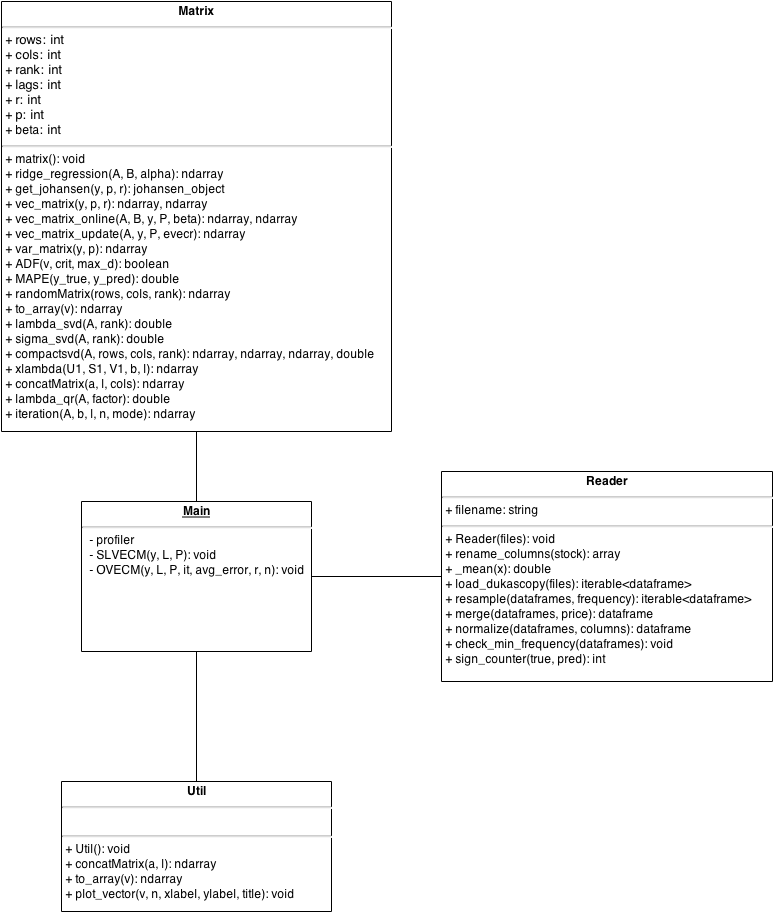
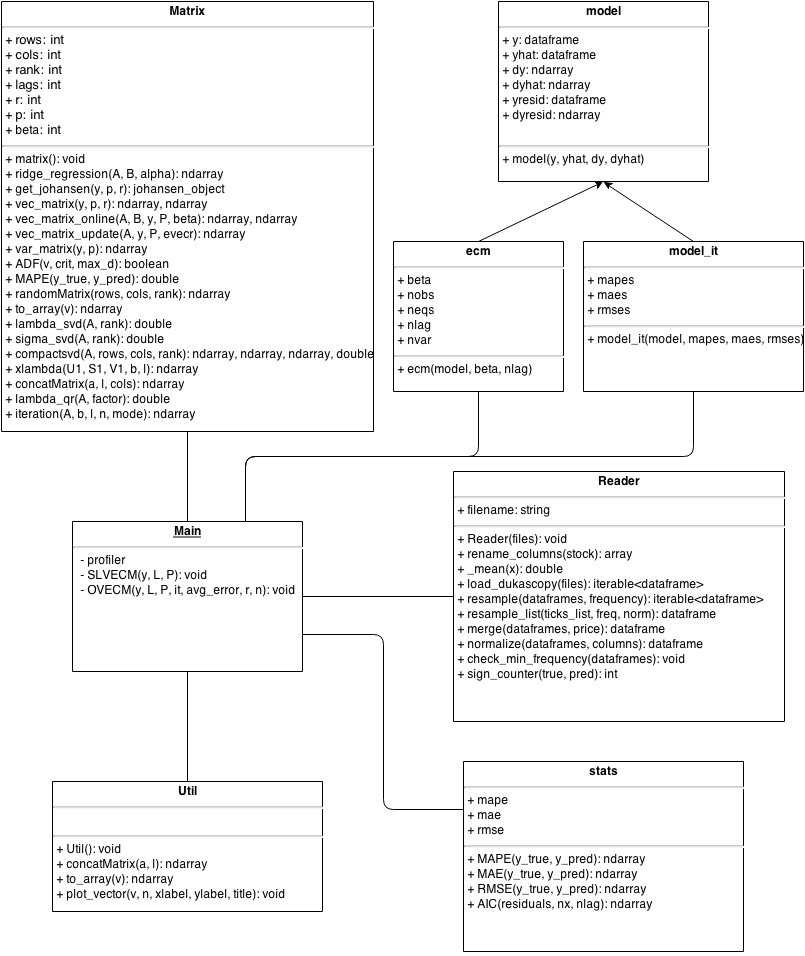
Adding experiments-results

diff --git a/escrito_memoria/include/experimentos.tex b/escrito_memoria/include/experimentos.tex
@@ -5,20 +5,33 @@ Dukascopy. Incialmente las pruebas se realizaron con datos a frecuencia de 1
 minuto, pero luego se implementó en clase Reader los métodos correspondientes
 para manejar la data ticks de forma automática: juntar datos de distintas monedas
 (Bid o Ask), hacer un resampling a diferentes frecuencias, normalizar las
-monedas dejando siempre la misma base, etc.
+monedas dejando siempre la misma base, etc. Las divisas elegidas para
+realizar los experimentos fueron: \emph{EURUSD}, \emph{GBPUSD}, \emph{USDCHF},
+\emph{USDJPY} y se trabajó con el Ask Price \ref{fig:stocks_ask}. En el caso de
+\emph{USDCHF}, \emph{USDJPY} se trabajó con su recíproco, para que todos los 
+cálculos quedaran en la misma base \emph{USD}. Además la frecuencia, muestreada
+en minutos, genera una ventana de 1440 datos por día.
+
+\begin{figure}[h!t]
+    \begin{center}
+        \includegraphics[width=0.65\textwidth]{images/stocks_ask}
+        \caption{Precio Ask de las divisas}
+        \label{fig:stocks_ask}
+    \end{center}
+\end{figure}
 
 Los ticks están compuestos por: \emph{Date}, \emph{Time}, \emph{Ask},
 \emph{Bid}, \emph{AskVolume}, \emph{BidVolume}. Por ser datos ticks, el campo
-Time es un hora \emph{double}, es decir, tiene asociada una
-hora:minutos:segundos, donde segundos es un número no entero. Cabe destacar que
-no existe una clara relación entre la aparición de ticks, ya que en algunos
-casos aparecen hasta 4 ticks en 1 segundo, mientras que en otros horarios no
-aparecen ticks en 90 segundos (dato calculado con la función
-check\_min\_frequency de la clase Reader). 
+Time es un hora \emph{double}, es decir, tiene asociada una hora :minutos:
+segundos, donde segundos es un número no entero. Cabe destacar que no existe
+una clara relación entre la aparición de ticks, ya que en algunos casos
+aparecen hasta 4 ticks en 1 segundo, mientras que en otros horarios no aparecen
+ticks en 90 segundos (dato calculado con la función check\_min\_frequency de la
+clase Reader). 
 
 En la figura \ref{fig:eurusd_ticks} se puede apreciar la data ticks del EURUSD,
 en una ventana de 30 minutos, donde la curva superior es la correspondiente al
-Ask, y la inferior al Bid. En la figura \ref{fig:eurusd_r6s} se muestra la
+Ask, y la inferior al Bid. En la figura \ref{fig:eurusd_30s} se muestra la
 misma moneda pero con un resample de 6 segundos. El resample se calcula con el
 promedio de los ticks en la ventana de 6 segundos, y para el caso que no exista
 movimiento en dicho periodo, se rellena con el valor anteior.
@@ -33,9 +46,9 @@ movimiento en dicho periodo, se rellena con el valor anteior.
 
 \begin{figure}[h!t]
     \begin{center}
-        \includegraphics[width=0.6\textwidth]{images/eurusd_6s}
-        \caption{Ticks de EURUSD con resample de 6 segundos}
-        \label{fig:eurusd_r6s}
+        \includegraphics[width=0.6\textwidth]{images/eurusd_30s}
+        \caption{Ticks de EURUSD con resample de 30 segundos}
+        \label{fig:eurusd_30s}
     \end{center}
 \end{figure}
 
@@ -43,18 +56,266 @@ movimiento en dicho periodo, se rellena con el valor anteior.
 \section{Selección de Parámetros}
 Cómo se mencionó anteriormente, los parámetros del algoritmo se calcularon
 mediante el criterio de información de Akaike (AIC). Para esto, se tomaron
-datos intradiarios de agosto 2014, semana entre 11-15. Además, se fue
+datos intradiarios de agosto 2014, semana entre 11-15. Además, se
 combinaron:
 \begin{itemize}
- \item L: entre 100 y el largo de la lista de Ask.
- \item P: entre 1 y 9 lags.
- \item Frecuencias: se tomaron distintas frecuencias, entre 5 a 30 segundos.
-\end{itemize} 
+ \item L: [100, 400, 700, 1000].
+ \item P: [1, 2, 3, 4, 5].
+ \item Frecuencias: 1 minuto.
+\end{itemize}
 
+Los resultados~\ref{tab:IAC} muestran para cada largo de ventana,
+el número de lag óptimos (en negrita) para el modelo según el criterio de AIC.
 
+\begin{table}[h]
+\caption{Resultados de AIC}
+\label{tab:IAC}
+\begin{center}
+\begin{tabular}{|l|c|c|c|c|c|}
+\hline
+\backslashbox{\textbf{L}}{\textbf{P}} & \textbf{1} & \textbf{2} & \textbf{3} & \textbf{4} & \textbf{5} \\
+\hline
+100 & -58.64574 & \textbf{-58.83743} & -58.70088 & -58.61984 & -58.68117 \\
+400 & -60.42127 & -60.65667 & -60.67377 & -60.64634 &  \textbf{-60.68087} \\
+700 & -59.05503 & -59.17413 & \textbf{-59.20871} & -59.18571 & -59.17367 \\
+100 & -58.98121 & -59.09158 & \textbf{-59.12083} & -59.10099 & -59.0927 \\
+\hline
+\end{tabular}
+\end{center}
+\end{table}
 
+\section{Pruebas de Cointegración}
+Para los efectos de pruebas como se trabajó con 4 monedas, la cantidad de 
+vectores de cointegración debería ser 1, 2 o 3. 
 
-\section{Resultados}
+\section{Test de raiz unitaria}
+Antes de correr los test, se checkearon que las series de tiempo fueran
+I(1) usando el test de Augmented Dickey Fuller (ADF).
+
+\begin{table}[h!]
+\caption{Test de raiz unitaria}
+\label{tab:adf}
+\begin{center}
+\begin{tabular}{|l|c|c|c|c|c|}
+\hline
+& \textbf{Estadístico} & \textbf{Valor Crítico} & \textbf{Resultado}\\
+\hline
+EURUSD          & -0.64 & -1.94 & True       \\
+$\Delta$ EURUSD & -70.45   & -1.94 & False       \\
+GBPUSD          & -0.63   & -1.94 & True          \\
+$\Delta$ GBPUSD & -54.53   & -1.94 & False       \\
+CHFUSD          & -0.88   & -1.94 & True         \\
+$\Delta$ CHFUSD & -98.98   & -1.94 & False       \\
+JPYUSD          & -0.65 & -1.94 & True        \\
+$\Delta$ JPYUSD & -85.78 & -1.94 & False     \\ 
+\hline
+\end{tabular}
+\end{center}
+\end{table}
+
+Tabla~\ref{tab:adf} muestra que todas las monedas no pueden rechazadas por el test
+de raiz unitaria pero si son rechazadas para sus primeras diferencias. Esto significa
+que todas las series de tiempo son I(1) por lo que es posible usar los modelos VECM
+y OVECM.
 
 \section{Performance}
+Dentro de todos los experimentos realizados, según la selección de parámetros
+y considerando 400 iteraciones los resultados de tiempos de ejecución se pueden
+ver en la tabla~\ref{tab:extimes}
 
+\begin{table}[h!]
+\caption{Execution times}
+\label{tab:extimes}
+\begin{center}
+\begin{tabular}{|l|c|c|c|c|c|}
+\hline
+& L & P & e  & Time[s] \\
+\hline
+OVECM & 100 & 2  & 0      & 2.235\\
+OVECM & 100 & 2  & 0.002  & 1.797\\
+SLVECM & 100 & 2  & -- & 2.100\\
+\hline
+OVECM & 400 & 5  & 0      & 3.390\\
+OVECM & 400 & 5  & 0.002  & 2.111\\
+SLVECM & 400 & 5  & -- & 3.222\\
+\hline
+OVECM & 700 & 3  & 0      & 3.225\\
+OVECM & 700 & 3  & 0.002  & 2.723\\
+SLVECM & 700 & 3  & -- & 3.581\\
+\hline
+OVECM & 1000 & 3  & 0      & 3.603\\
+OVECM & 1000 & 3  & 0.002  & 3.579\\
+SLVECM & 1000 & 3  & -- & 3.609\\
+\hline
+\end{tabular}
+\end{center}
+\end{table}
+
+OVECM recibe como parámetro el umbral de error para cambiar los vectores de
+cointegración. Es decir, OVECM con e = 0 es lo mismo que ejecutar el SLVECM,
+ambos tienen exactamente los mismos vectores de cointegración y estadísticos.
+
+Para ver en detalle qué parte del código demora más se presenta el siguiente
+profile de ejecución:
+\begin{verbatim}
+   Time %Time  Line Contents
+============================
+               def OVECM(y, L, P, it, avg_error, r, n):
+      4   0.0      it2, l = y.shape
+               
+      7   0.0      dy_true = np.zeros([it, l], dtype=np.float32)
+      4   0.0      dy_pred = np.zeros([it, l], dtype=np.float32)
+      4   0.0      mape = np.zeros([it, l], dtype=np.float32)
+      4   0.0      mae = np.zeros([it, l], dtype=np.float32)
+      4   0.0      rmse = np.zeros([it, l], dtype=np.float32)
+               
+      8   0.0      m = cl.Matrix()
+               
+      3   0.0      start_time = time.time()
+               
+    911   0.0      for i in range(it):
+ 110712   1.6          y_i = y[i:i + L]
+               
+   1031   0.0          if i == 0:
+                           # Initialization
+   6839   0.1              beta = m.get_johansen(y_i.as_matrix(), 
+                                    P, r)
+  29075   0.4              A, B = m.vec_matrix(y_i, P, 
+                                    beta.evecr)
+                       else:
+                           # Update & Out-of-sample forecast
+4456245  66.1              A, B = m.vec_matrix_online(A, B, y_i, 
+                                    P, beta.evecr)
+   6820   0.1              dy_true[i-1, :] = B[-1,:]
+  11775   0.2              dy_pred[i-1, :] = np.dot(A[-1,:], x)
+               
+                       # OLS
+ 439061   6.5          x, residuals, rank, s = np.linalg.lstsq(A, B)
+  79004   1.2          Ax = np.dot(A, x)
+               
+                       # Internal mape
+  28364   0.4          y_true = y_i.as_matrix()[-n:]
+  23996   0.4          y_pred = Ax[-n:] + y_i.as_matrix()[-n - 1:-1]
+               
+                       # Stats info
+ 512572   7.6          stats = cl.stats(y_true, y_pred)
+   8587   0.1          mape[i, :], mae[i,:], rmse[i,:] = stats.mape, 
+                            stats.mae, stats.rmse
+  36757   0.5          avg_mape = np.average(mape[i, :])
+               
+                       # Beta update
+   2224   0.0          if avg_mape > avg_error:
+ 865051  12.8              beta = m.get_johansen(y_i.as_matrix(), P)
+    307   0.0              r = beta.r
+  41151   0.6              A = m.vec_matrix_update(A, y_i, P, 
+                                beta.evecr)
+  79857   1.2              x, residuals, rank, s = np.linalg.lstsq(A, B)
+               
+                   # model_it object
+   2945   0.0      oecm = cl.model_it(y[L:L + it], dy_pred + 
+                        y[L - 1:L + it - 1], dy_true, dy_pred, 
+                        mape, mae, rmse)
+
+
+ Time  Per Hit   % Time  Line Contents
+======================================
+                         @do_profile(follow=[OVECM, OVECMRR])
+                         def main():
+    2      2.0      0.0      path = '../data_csv/data_ticks/august_11/'
+    2      2.0      0.0      assets = ['EURUSD', 'GBPUSD', 
+                                    'USDCHF', 'USDJPY']
+                             
+    6      1.2      0.0      data_list = [path+ i +'.csv' for i in assets]
+                             
+    7      7.0      0.0      reader = cl.Reader(data_list)
+ 100M   100M.0     93.7      ticks_list = reader.load()
+                         
+39925  39925.0      0.0      ask_norm = reader.resample_list(ticks_list, 
+                            '60s', [2, 3])            
+    2      2.0      0.0      y = ask_norm
+                         
+    1      1.0      0.0      L = 1000
+    1      1.0      0.0      P = 4
+    1      1.0      0.0      it = 400
+    1      1.0      0.0      r = 0
+    0      0.0      0.0      n = 50
+    1      1.0      0.0      avg_error = 0.002
+                         
+ 6758K 6758K.0      6.3      oecm = OVECM(y, L, P, it, avg_error, r, n)
+
+\end{verbatim}
+
+Se puede observar que los cálculos más costosos son la construcción de la
+matriz VECM, seguido por el cálculo de los vectores de cointegración, luego de
+los estadísticos en cada paso y finalmente la resolución del sistema mediante
+mínimos cuadrados. Por otro lado, el cálculo está inserto dentro de la lectura
+de archivos, los cuales toman mucho más tiempo que la ejecución del algoritmo.
+
+Cabe destacar que estos números dependen del tamaño de la ventana, número de
+lags, umbral de error y cantidad de elementos para calcular el mape in-sample.
+
+En todos los casos, ya sea incluso en frecuencias de 1 segundo, el algoritmo
+OVECM, toma tiempos de ejecución menor a la frecuencia de datos, esto le
+permite a un algoritmo de estrategia poder utilizar como entrada los resultados
+de esta implementación.
+
+\section{Resultados}
+Uno de los objetivos del algoritmo OVECM es ser más eficiente en tiempo 
+que el SLVECM, pero además se busca que los errores de la extrapolación
+no sean tan distintos. La tabla~\ref{tab:mapes} muestra diferentes los diferentes
+indicadores de las muestras en la interpolación (in-sample) y la extrapolación 
+(out-of-sample). Se puede ver que son similares, por lo que se confirma que los
+vectores de cointegración se pueden mantener en cierta medida durante el tiempo.
+
+\begin{table*}[ht!]
+\caption{Métricas del modelo}
+\label{tab:mapes}
+\begin{center}
+\begin{adjustbox}{max width=\textwidth}
+\begin{tabular}{|l|l|c|c|c|c|c|c|c|c|}
+\hline
+\multicolumn{4}{|c|}{Model} & \multicolumn{3}{|c|}{In-sample} &
+\multicolumn{3}{|c|}{Out-of-sample} \\ 
+\hline
+\hline
+Método & L & P & e &
+MAPE & MAE& RMSE&
+MAPE & MAE& RMSE \\
+\hline
+ %OVECM  &   100 &  P=2& 0.002  &  134.76&  136.50&           133.16&  137.20&  137.20&  137.20\\
+ OVECM  &   100 &  P=2& 0.0026&  0.0026&  0.0008&  0.0011&  0.0030&  0.0009&  0.0013\\
+ OVECM  &   400 &  P=5& 0.0041  &  0.0037&  0.0009&  0.0012&  0.0041&  0.0010&  0.0014\\
+ OVECM  &   700 &  P=3& 0.0032  &  0.0032&  0.0009&  0.0013&  0.0032&  0.0009&  0.0013\\
+ OVECM  &   1000 &  P=3& 0.0014  &  0.0017&  0.0006&  0.0008&  0.0017&  0.0006&  0.0009\\
+\hline
+ SLVECM  &   100 &  P=2& -  &  0.0026&  0.0008&  0.0011&  0.0031&  0.0009&  0.0013\\
+ SLVECM  &   400 &  P=5& -  &  0.0037& 0.0009&  0.0012&  0.0041&  0.0010&  0.0014\\
+ SLVECM  &   700 &  P=3& -  &  0.0032& 0.0009&  0.0013&  0.0032&  0.0009&  0.0013\\
+ SLVECM  &   1000 &  P=3& -  &  0.0017& 0.0006&  0.0008&  0.0017&  0.0006&  0.0009\\
+\hline
+\end{tabular}
+\end{adjustbox}
+\end{center}
+\end{table*}
+
+En la figura~\ref{fig:accuracy} se puede observar qué tan bien aproxima el método OVECM
+para cada divisa.
+
+\begin{figure}[h!t]
+    \begin{center}
+        \includegraphics[width=0.8\textwidth]{images/y_vs_yhat}
+        \caption{Divisas: Valor real y aproximación}
+        \label{fig:accuracy}
+    \end{center}
+\end{figure}
+
+En la figura~\ref{fig:mapes} se puede observar cuanto es el error de aproximación
+medido en MAPE para cada iteración.
+
+\begin{figure}[h!t]
+    \begin{center}
+        \includegraphics[width=0.8\textwidth]{images/ovecm_mapes}
+        \caption{Divisas: Valor del MAPE en cada iteración}
+        \label{fig:mapes}
+    \end{center}
+\end{figure}

diff --git a/escrito_memoria/include/vecm.tex b/escrito_memoria/include/vecm.tex
@@ -65,6 +65,7 @@ La matriz VAR tiene la siguiente forma:
 
 \begin{equation}
  \label{eq:varmatrix}
+ \resizebox{0.9\hsize}{!}{$%
                \underbrace{ \begin{bmatrix}
                \quad \\
                \mathbf{y}_{p+1} &
@@ -97,6 +98,7 @@ La matriz VAR tiene la siguiente forma:
               \mathbf{\epsilon}_N \\
               \quad
              \end{bmatrix}}_{\substack{\mathbf{E}\\l \times (N-p) }} 
+$}
 \end{equation}
 
 \section{Integración y Cointegración}
@@ -171,7 +173,7 @@ Este ejemplo muestra como los vectores de cointegración describe la relación
 estable entre los procesos a traves de relaciones lineales que son más
 estacionarias que el proceso original.
 
-\section{Vector Error Correlation (VEC)}
+\section{Vector Error Correction (VEC)}
 
 El modelo VEC es una forma especial de un modelo VAR para variables I(1) que
 están también cointegradas. El modelo VEC es obtenido reemplazando
@@ -238,8 +240,8 @@ Si existe cointegración, entonces la ecuación (\ref{eq:vec}) puede ser escrita
    \noindent que es un modelo VAR pero para series de tiempo diferenciadas.
 
 La forma matricial del modelo VEC es:
-
 \begin{equation} \label{eq:vecmatrix}
+\resizebox{0.9\hsize}{!}{$%
 \underbrace{
                 \left[ \begin{array}{ccc}
                \quad & \mathbf{\Delta y}_{p+1} & \quad \\ 
@@ -273,6 +275,7 @@ La forma matricial del modelo VEC es:
               \quad & \vdots & \quad\\
               \quad &\mathbf{\epsilon}_N & \quad
              \end{bmatrix}}_{\substack{\mathbf{E}\\ (N-p) \times l }} 
+$}
 \end{equation}
 
 Los parámetros de los modelos VAR y VEC mostrados en la ecuación

diff --git a/escrito_memoria/include/implementaciones.tex b/escrito_memoria/include/implementaciones.tex
@@ -265,7 +265,7 @@ Augmented Dicky Fuller, Errores porcentuales, etc.
 
 \begin{figure}[h!t]
     \begin{center}
-        \includegraphics[width=0.8\textwidth]{images/class_diagram.png}
+        \includegraphics[width=1\textwidth]{images/class_diagram.png}
         \caption{Diagrama de Clases}
         \label{fig:class_diagram}
     \end{center}

diff --git a/escrito_memoria/memoria_pregrado.tex b/escrito_memoria/memoria_pregrado.tex
@@ -27,6 +27,8 @@
 \usepackage{multicol}
 \usepackage{algorithm}
 \usepackage{algorithmic}
+\usepackage{slashbox,pict2e}
+\usepackage{adjustbox}
 \renewcommand{\algorithmicrequire}{\textbf{Input:}}
 \renewcommand{\algorithmicensure}{\textbf{Output:}}
 
